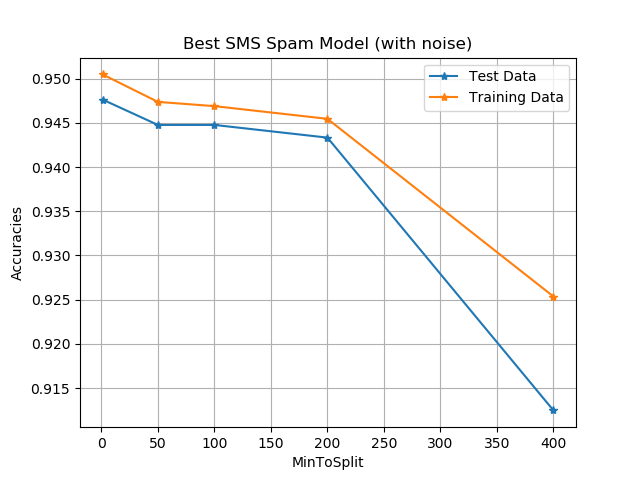
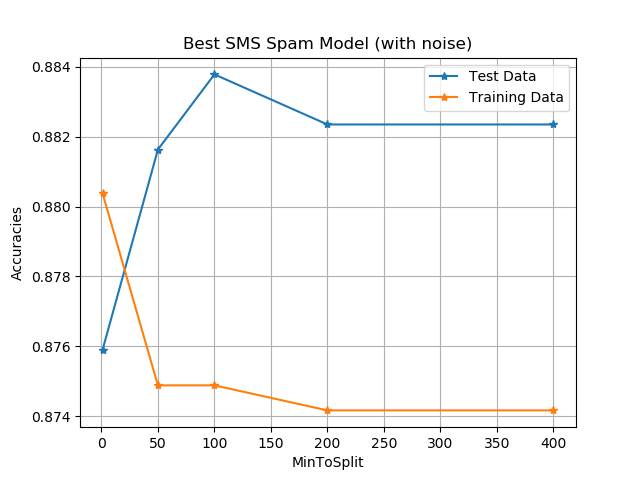
TRIED: parameter sweeps with noise.

diff --git a/Assignment4/Code/assignments/bsm_parameter_sweeps.py b/Assignment4/Code/assignments/bsm_parameter_sweeps.py
@@ -61,7 +61,7 @@ def parameter_sweeps_by_min_to_stop(min_to_stops=[1, 50, 100, 200, 400],
     return accuracies, test_accuracies
 
 
-def parameter_sweeps_by_feature_restriction(feature_restrictions=[0, 20, 50, 100, 200],
+def parameter_sweeps_by_feature_restriction(feature_restrictions=[0, 2, 5, 10, 20],
                                             config=config,
                                             with_noise=True):
 
@@ -110,12 +110,12 @@ if __name__ == '__main__':
         'min_to_stop': 2,  # decision tree and random forest
         'feature_restriction': 100,  # random forest
         'use_bagging': True,  # random forest.
-        'num_trees': 40,  # random forest
+        'num_trees': 10,  # random forest
         'feature_restriction': 20,  # random forest
         'feature_selection_by_mi': 20,  # 0 means False, N > 0 means select top N words based on mi.
         'feature_selection_by_frequency': 10  # 0 means False, N > 0 means select top N words based on frequency.
     }
-    parameter_sweeps_by_min_to_stop(config=config,
-                                    with_noise=False)
+    # parameter_sweeps_by_min_to_stop(config=config, with_noise=True)
+
     parameter_sweeps_by_feature_restriction(config=config,
-                                            with_noise=False)
+                                            with_noise=True)

diff --git a/Assignment4/Code/test/test_random_forest.py b/Assignment4/Code/test/test_random_forest.py
@@ -8,14 +8,16 @@ from utils.data_loader import get_featurized_xs_ys
 class TestRandomForestModel(unittest.TestCase):
 
     def test_fit_predicts(self):
-        rfm = RandomForestModel(numTrees=2,
-                                use_bagging=False,
-                                feature_restriction=0,
-                                seed=0)
-        xTrain, xTest, yTrain, yTest = get_featurized_xs_ys()
-        rfm.fit(xTrain, yTrain, min_to_split=50)
-        yTestPredicted = rfm.predict(xTest)
-        print(Evaluation(yTest, yTestPredicted))
+
+        xTrain, xTest, yTrain, yTest = get_featurized_xs_ys(numMutualInformationWords=295)
+        for fr in [0, 10, 50, 100, 200, 300]:
+            rfm = RandomForestModel(numTrees=20,
+                                    use_bagging=True,
+                                    feature_restriction=fr,
+                                    seed=100)
+            rfm.fit(xTrain, yTrain, min_to_split=20)
+            yTestPredicted = rfm.predict(xTest)
+            print(Evaluation(yTest, yTestPredicted))
 
 
 if __name__ == '__main__':

diff --git a/Assignment4/Code/model/RandomForestsModel.py b/Assignment4/Code/model/RandomForestsModel.py
@@ -42,7 +42,7 @@ class RandomForestModel(object):
 
             xs.append(x)
 
-        # self.trees = [build_tree(x, y, min_to_split) for x in xs]
+        self.trees = [build_tree(x, y, min_to_split) for x in xs]
         self.trees = Parallel(n_jobs=12)(delayed(build_tree)(x, y, min_to_split)
                                          for x in xs)
 

diff --git a/Assignment4/Report/prob2_best_sms_spam_model.md b/Assignment4/Report/prob2_best_sms_spam_model.md
@@ -37,6 +37,9 @@ config = {
     'feature_selection_by_frequency': 10  # 0 means False, N > 0 means select top N words based on frequency.
 }
 ```
+Firstly, I predicted model by sweeping min_to_stop(minToSplit). Below graph indiciates as increasing the **overfitting** **underfitting**
+
+![prob2_param_sweep_by_min_to_split_1_50_100_200_400](prob2_param_sweep_by_min_to_split_1_50_100_200_400.png)
 
 * Feature Selection Improvement by 
   1. number of frequency
